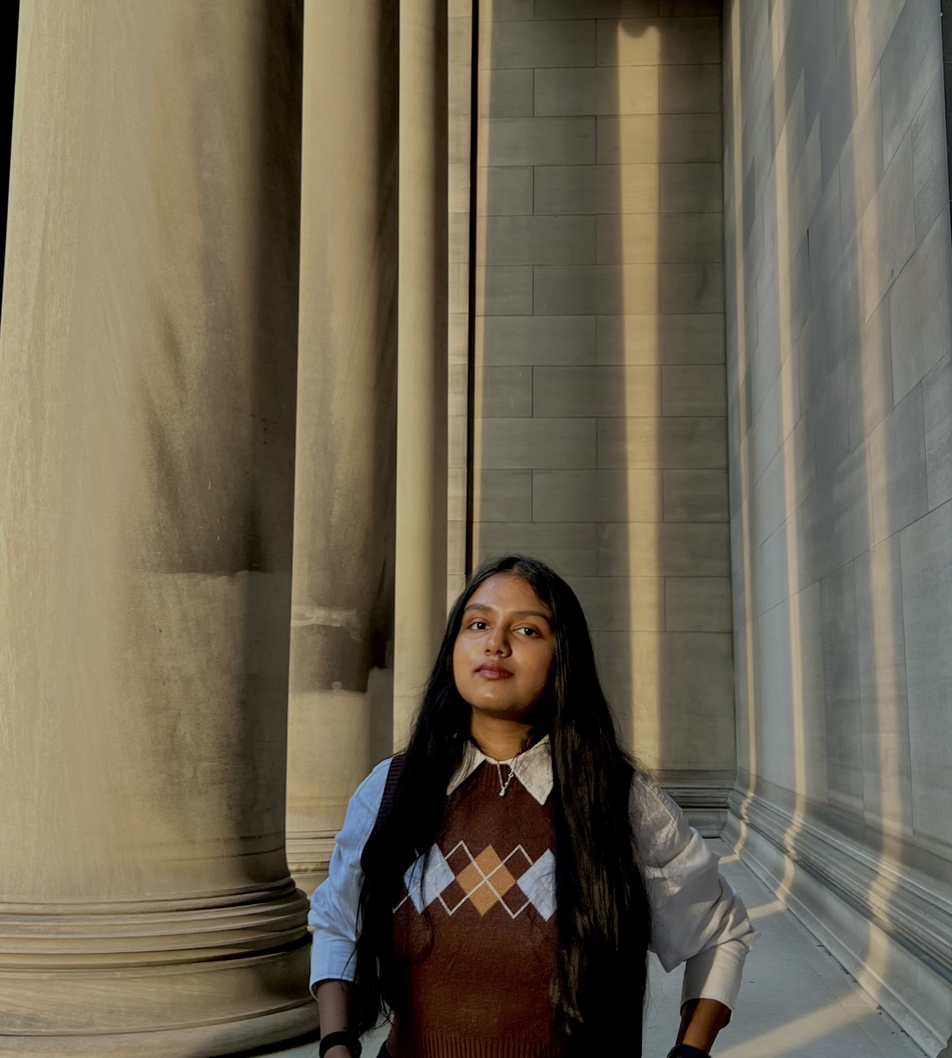
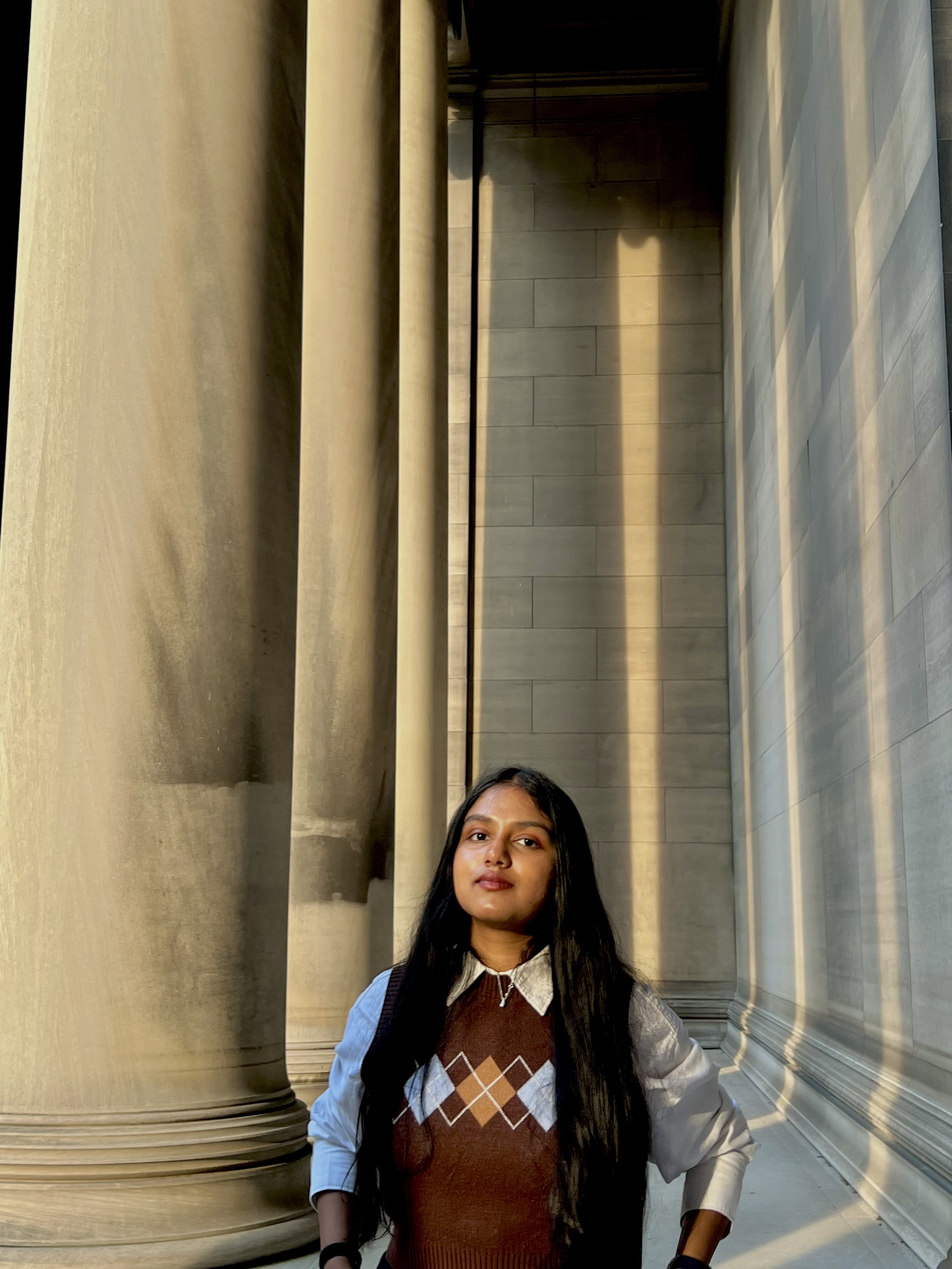
fixed the small screen width issues and added more responsive shrink to the photo

diff --git a/index.html b/index.html
@@ -17,18 +17,18 @@
             <p id="id_name">Likhitha Chintareddy</p>
             <p id="id_job"> &lt;!-- Frontend/UX Engineer --&gt;</p>
             <!-- <p class="font-notosanstelugu" style="color: rgb(84, 0, 0);">&lt;!-- <span class="font-clarendon" style="color:rgb(84, 0, 0);">telugu:</span> లిఖిత చింతరెడ్డి --&gt;</p> -->
-            <p id="id_intro" style="margin-top: 0.5rem; font-family: Sentinel Pro;">
+            <p id="id_intro" style="margin-top: 0.5rem; font-family: Sentinel Pro; font-size: 1.20rem;">
               [<i>BS in</i>] <span class="highlight">Electrical and Computer Engineering</span> + 
               <br>
               [<i>Minor in</i>] <span class="highlight">Design for Learning</span> 
               @ <span style="color: rgb(84, 0, 0)"><b>Carnegie Mellon University</b></span>.
             </p>
             <br>
-            <p class="font-serif">
+            <p style="font-family: Sentinel Pro; font-size: 1.20rem;">
               Her practice aspires to leverage language and human-interaction methods in creating unifying pro-social experiences that transcend unique cultural backgrounds.
             </p>
             <br>
-            <p class="font-serif">{This portfolio website, coded using animations from <a href="https://motion.dev" target="_blank" rel="noreferrer noopener" id="id_motion">&#8599;Motion One</a> and hosted on GitHub pages, is always in development.} </p>
+            <p style="font-family: Sentinel Pro; font-size:1.20rem;">{This portfolio website, coded using animations from <a href="https://motion.dev" target="_blank" rel="noreferrer noopener" id="id_motion">&#8599;Motion One</a> and hosted on GitHub pages, is always in development.} </p>
           </section>
 
           <hr style="margin-top: 55px; margin-bottom: 55px;">

diff --git a/main.css b/main.css
@@ -31,7 +31,7 @@ p {
     /* overflow: hidden; */
     /* overflow-wrap: break-word; */
     /* margin-top: 3rem; */
-    font-size: 0.90rem;
+    font-size: 1.12rem;
 }
 
 /* section:hover .highlight { */
@@ -45,7 +45,7 @@ p:hover {
 }
 
 #id_about {
-    margin-top: 38vh;
+    margin-top: 30vh;
     color: var(--text-color);
     display: block;
     visibility: hidden;
@@ -98,15 +98,17 @@ p:hover {
 
 
 #id_image_container {
-    margin-right: 10vw;
-    padding-left: 5px;
+    /* margin-right: 5vw; */
+    padding-left: 50px;
     margin-top: 25vh;
+    max-width: 30vw;
     height: 45vh;
     align-items: center;
 }
 
 #id_profile {
     height: 45vh;
+    
     visibility: hidden;
 }
 
@@ -209,9 +211,15 @@ p:hover {
     display: none;
 }
 
-@media (min-width: 768px) {
+@media (min-width: 768px) and (max-width: 1023px) {
     p {
         font-size: 1.15rem;
+    }
+    #id_name {
+        font-size: 1.9rem;
+    }
+    #id_job {
+        font-size: 1.2rem;
     }
 }
 
@@ -226,16 +234,16 @@ p:hover {
         width: 420px;
     }
 }
-
+/* 
 @media (max-width: 800px) {
     p {
         font-size: 2vw;
     }
-}
+} */
 
 
 
-@media screen and (max-width: 600px) {
+@media screen and (max-width: 640px) {
     #id_name {
         font-size: 2rem;
     }
@@ -254,6 +262,9 @@ p:hover {
     /* } */
     #id_rightcol {
         display: none;
+    }
+    #id_leftcol {
+        width: 65vw;
     }
 }
 

diff --git a/main.js b/main.js
@@ -14,7 +14,7 @@ window.onload = () => {
 
   const profile = document.getElementById("id_profile");
   profile.style.visibility = "visible";
-  animate("#id_profile", {opacity: [0, 1]}, {duration: 0.4, easing: "ease-in"});
+  // animate("#id_profile", {opacity: [0, 1], transform: "translateX(-10px)",}, {duration: 0.4, easing: "ease-in"});
 
   const filter = document.getElementById("id_filterfaceoff");
   filter.style.visibility = "visible";
